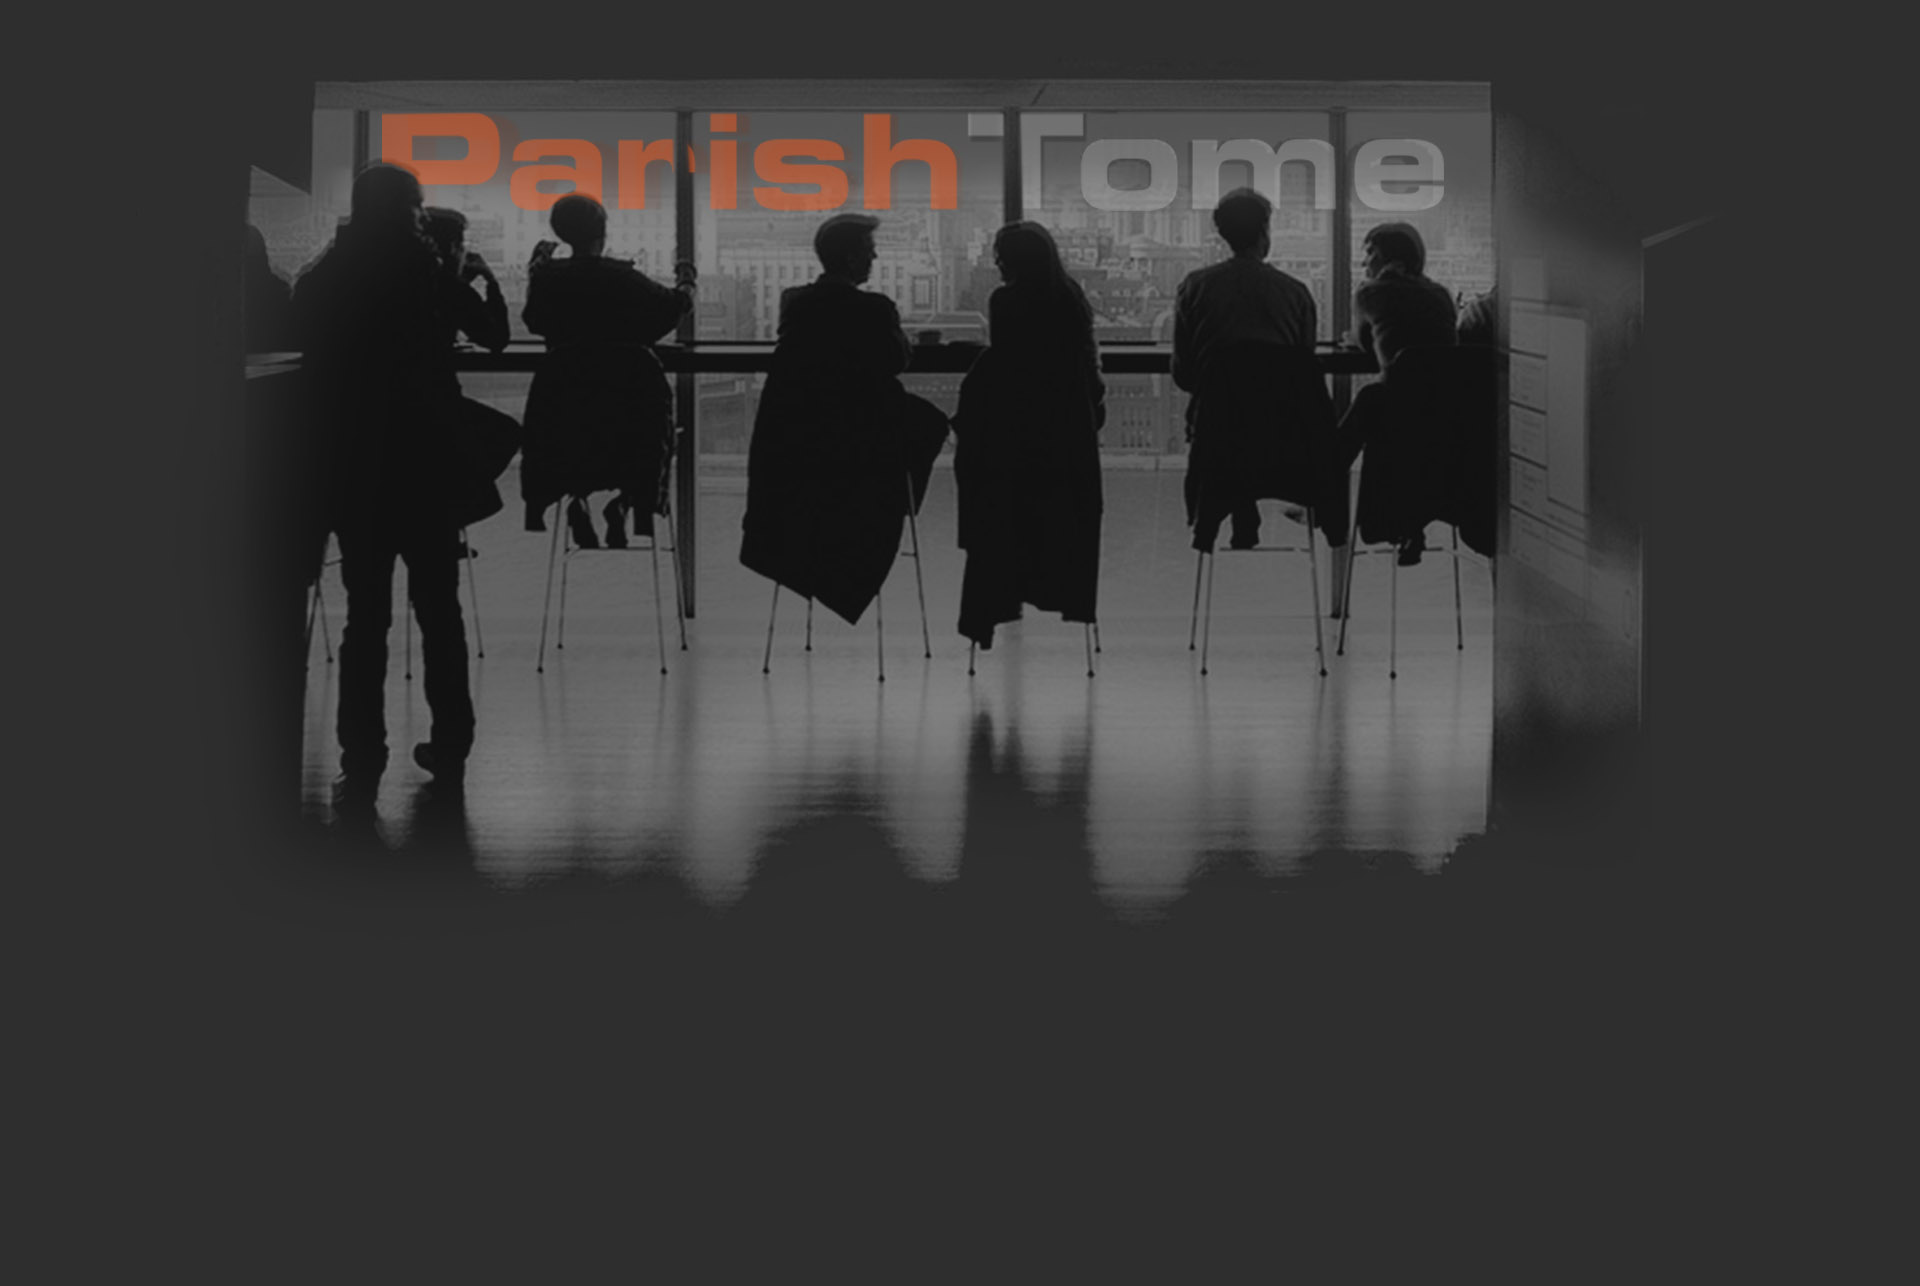
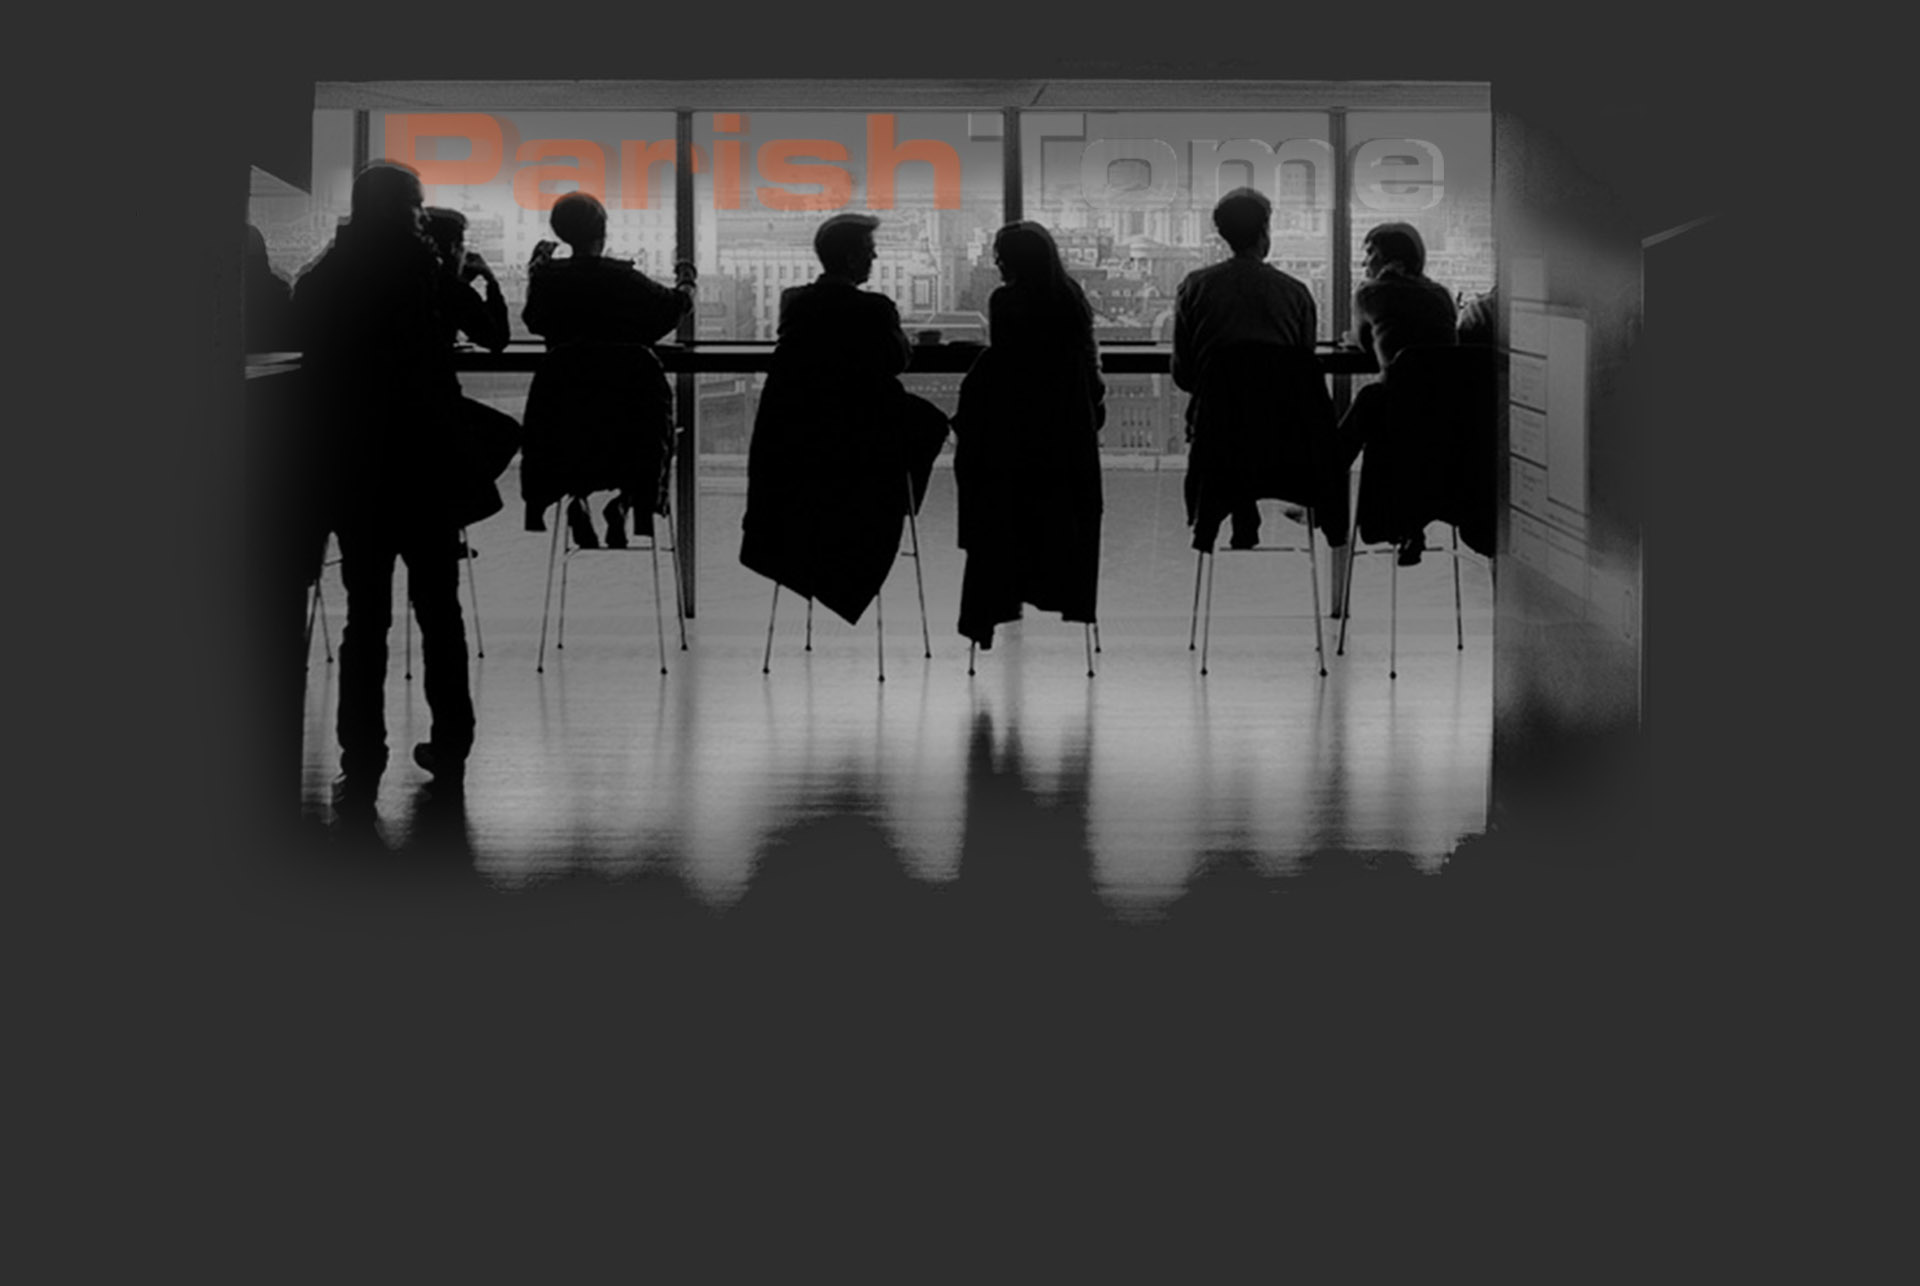
commit 137

diff --git a/index.html b/index.html
@@ -9,7 +9,7 @@
     <meta name="author" content="">
     <link rel="shortcut icon" href="ico/favicon.png">
 
-    <title>Parish Tome: A Complete Church Administration Web Application</title>
+    <title>A Complete Church Administration Web Application</title>
 
     <!-- Bootstrap core CSS -->
     <link href="css/bootstrap.min.css" rel="stylesheet">
@@ -110,8 +110,8 @@
 						<li><a id="GoToContact" href="#contact">Contact</a></li>							
 					</ul>
 					<div class="navbar-right">
-						<a href="signin.html" class="btn btn-bordered">Sign in</a>
-						<a href="signup.html" class="btn btn-primary">Sign up</a>
+						<!--<a href="signin.html" class="btn btn-bordered">Sign in</a>-->
+						<a href="signin.html" class="btn btn-primary">Sign in</a>
 					</div>	
 				</div><!--/.nav-collapse -->
 			</div>
@@ -125,9 +125,9 @@
 			<div class="container">
 				<div class="row text-center wow fadeInUp" data-wow-delay="0.4s">
 					<div class="col-md-10 col-md-offset-1">
-						<h3>A complete web based solution <span>for your church administration </span></h3>
+						<h3><font color="D74623">A complete web based solution <span>for your church administration </span></font></h3>
 						<p class="btn-inline">
-							<a href="http://www.youtube.com/watch?v=lZr5ZsFlZsM&amp;feature=share&amp;list=ALzxNYRMVOCRi5wLzuGUE7XQpqhCfYTwzI" data-pretty="prettyPhoto" class="btn btn-bordered btn-lg zoom">Take a video tour</a>
+							<a href="http://www.youtube.com/watch?v=lZr5ZsFlZsM&amp;feature=share&amp;list=ALzxNYRMVOCRi5wLzuGUE7XQpqhCfYTwzI" data-pretty="prettyPhoto" class="btn btn-bordered btn-lg zoom"><font color="D74623">Take a video tour</font></a>
 							<!--<a href="#" class="btn btn-primary btn-lg">Register for free</a>-->
 						</p>
 						<div class="home-slider">
@@ -168,102 +168,27 @@
 	<!-- Start features -->
 	<section id="features" class="contain desc-wrapp gray-bg">
 		<div class="container">
+			
 			<div class="row text-center wow fadeInUp" data-wow-delay="0.4s">
 				<div class="col-md-8 col-md-offset-2">
-					<h3 class="heading"><span>Features</span>The Featurers of Parishtome</h3>
+					<h3 class="heading"><span><h1>Features</h1></span>The Featurers of Parishtome</h3>
 				</div>
 			</div>
-			<div class="row wow fadeInDown" data-wow-delay="0.5s">
-					<i class="pe-7s-phone pe-feature"></i>
-					<div class="col-md-3 col-sm-5 col-xs-11 column">
-
-					<div class="single-item wow slideInLeft" data-wow-delay="0ms" data-wow-duration="1500ms">
-					<h5><a href="#">Family Register</a></h5>
-					<div class="text">
-					<p>Family Register is the integral part of any church administration. Manual process of maintaining and retrieving family details are tedious task especially preparing birthday and wedding anniversary list, similarly periodically updating events like birth, death, marriage etc are another issue. ParishTome provides flexible solutions for maintaining and generating family details in fingertip. Parameters of ParishTome family register is incomparable which make this software application unique in features.</p>
-					</div>
-					</div>
-				</div>
-
-				<i class="pe-7s-paperclip pe-feature"></i>
-				<div class="col-md-3 col-sm-5 col-xs-11 column">
-					<div class="single-item wow slideInLeft" data-wow-delay="0ms" data-wow-duration="1500ms">
-					<h5><a href="#">Auction Management</a></h5>
-					<p>
-					Auction is one of the main income generation media of church where families celebrates with whole heart participation. Even though it’s a fund rising event the fun and enjoyment of this together is very meaningful. ParishTome help to keep its essence in all means and open up a wide module to accommodate all accounting details as a separate income expense head. Tracking individual contributions and sales figures are handled accurately. 
-					</p>
-					</div>
-			</div>
-					
-					<i class="pe-7s-graph1 pe-feature"></i>
-					<div class="col-md-3 col-sm-5 col-xs-11 column">
-					<div class="single-item wow slideInLeft" data-wow-delay="0ms" data-wow-duration="1500ms">
-					<h5><a href="#">Contributions and Giving</a></h5>
-					<div class="text">
-					<p>
-					Giving offering often believed as a blessing hence ParishTome creates many user-friendly options to minimize your struggles in this area. Among them online payment is one of the best features combatable to the modern technology. Another advanced option is a pledge module where a family can define their monthly commitment towards the church, and that minimize the data entry overhead. Fingertip monitoring and retrieving self-contributions history enable transparency in accounts.
-					</p>
-				</div>
-				</div>
-			</div>
-
-					<i class="pe-7s-edit pe-feature"></i>
-					<div class="col-md-3 col-sm-5 col-xs-11 column">
-
-					<div class="single-item wow slideInLeft" data-wow-delay="0ms" data-wow-duration="1500ms">
-					<h5><a href="#">Event Management</a></h5>
-					<div class="text">
-					<p>
-					ParishTome not only provides just a calendar to schedule church events but also provides online check-in facility as well as customize options to create an event. This module also helps to send reminders and alerts to invitees. These events can be linked to the web-site as well as in the mobile apps. Can attach event photos and documents for future references.
-					</p>
-					</div>
-				</div>
-			</div>
-					
-					<i class="pe-7s-share pe-feature"></i>
-					<div class="col-md-3 col-sm-5 col-xs-11 column">
-					<div class="single-item wow slideInLeft" data-wow-delay="0ms" data-wow-duration="1500ms">
-					<h5><a href="#">Expenses and Vouchers</a></h5>
-					<p>
-					 Tracking the vouchers of respective expenses are always a miserable job but ParishTome brings out a very flexible solution for you to relax. Expenses and its vouchers can be tagged together for further verifications and reconciliation processes. Since the expenses are captured against each department heads the accounting reports and trial balances will be accurate.
-					</p>					
-					</div>
-				</div>
-				<i class="pe-7s-paper-plane pe-feature"></i>
-					<div class="col-md-3 col-sm-5 col-xs-11 column">
-					<div class="single-item wow slideInLeft" data-wow-delay="0ms" data-wow-duration="1500ms">
-					<h5><a href="#">Asset Management</a></h5>
-					<p>
-					Donation of assets from family and members can be tracked at any point of time. It’s a prestige module where people can always check the generous hearts to be get inspired for new commitments towards church.
-					</p>
-					</div>
-				</div>
-					
-		</div>
-	</section>
-	<!-- End features -->
-	
-	<div class="clearfix"></div>
-	
-	<!-- Start description -->
-	<section id="description" class="contain">
-		<div class="container">
-			<div class="row">
-				<div class="col-md-7 wow fadeInLeft" data-wow-delay="0.4s">
-					<img src="img/device.png" class="img-responsive" alt="" />
-				</div>
-				<div class="col-md-5 margintop40 wow fadeInRight" data-wow-delay="0.4s">
+			<div class="col-md-6 margintop40 wow fadeInRight" data-wow-delay="0.4s">
+				
 					<div class="accordion clearfix" id="accordion1">
+						<div class="row">
+					<div class="col-md-12">
 						<div class="accordion-group">
-							<div class="accordion-heading">										
+							<div class="accordion-heading">
 								<a class="accordion-toggle" data-toggle="collapse" data-parent="#accordion" href="#collapse1">
-									<i class="pe-7s-angle-down"></i> Product knowledge
+									<i class="pe-7s-angle-down"></i> Church Family Register
 								</a>
 							</div>
-							<div id="collapse1" class="accordion-body collapse in">
+							<div id="collapse1" class="accordion-body collapse">
 								<div class="accordion-inner">
-									<p>
-									Sed modus munere menandri ad. Te ius vero qualisque concludaturque. Sed ne vide fastidii incorrupte, elitr soleat intellegebat eam at. Aperiri facilis in pro, vis idque harum ex, ex vocent utroque similique vix choro moderatius consequuntur sit te, has veri salutatus te. Labore graecis aliquando ad sed. Accusam constituto honestatis et eos.
+									<p style="text-align:justify"> 
+									 Family Register is the integral part of any church administration. Manual process of maintaining and retrieving family details are tedious task especially preparing birthday and wedding anniversary list, similarly periodically updating events like birth, death, marriage etc are another issue. ParishTome provides flexible solutions for maintaining and generating family details in fingertip. Parameters of ParishTome family register is incomparable which make this software application unique in features.
 									</p>
 								</div>
 							</div>
@@ -271,13 +196,13 @@
 						<div class="accordion-group">
 							<div class="accordion-heading">
 								<a class="accordion-toggle" data-toggle="collapse" data-parent="#accordion" href="#collapse2">
-									<i class="pe-7s-angle-down"></i> How to get it
+									<i class="pe-7s-angle-down"></i> Auction Management
 								</a>
 							</div>
 							<div id="collapse2" class="accordion-body collapse">
 								<div class="accordion-inner">
-									<p>
-									Ea qui facete corpora honestatis. Eu sit soluta antiopam, postea sanctus incorrupte an vis. Pro primis insolens recteque no. Pro ei nostrum molestie splendide. Sed et elitr zril, harum euismod nam ad, velit sadipscing quo ad. Duo facer solet deleniti an, nec quis oportere efficiendi an, et regione principes comprehensam qui.
+									<p style="text-align:justify">
+									Auction is one of the main income generation media of church where families celebrates with whole heart participation. Even though it’s a fund rising event the fun and enjoyment of this together is very meaningful. ParishTome help to keep its essence in all means and open up a wide module to accommodate all accounting details as a separate income expense head. Tracking individual contributions and sales figures are handled accurately. 
 									</p>
 								</div>
 							</div>
@@ -285,13 +210,130 @@
 						<div class="accordion-group">
 							<div class="accordion-heading">
 								<a class="accordion-toggle" data-toggle="collapse" data-parent="#accordion" href="#collapse3">
-									<i class="pe-7s-angle-down"></i> Product license
+									<i class="pe-7s-angle-down"></i> Contributions and Giving
 								</a>
 							</div>
 							<div id="collapse3" class="accordion-body collapse">
 								<div class="accordion-inner">
-									<p>
-									Lorem ipsum dolor sit amet, eros accumsan intellegam cu eum, sed te docendi blandit. In primis lucilius mea, alii oratio numquam ei qui. Eam at quas mnesarchum. An adhuc consequat mel, usu in utroque dolorem. Nam diceret aliquam singulis no. Delenit temporibus scribentur eum eu. Labore graecis aliquando ad sed accusam constituto honestatis et eos.
+									<p style="text-align:justify">
+									Giving offering often believed as a blessing hence ParishTome creates many user-friendly options to minimize your struggles in this area. Among them online payment is one of the best features combatable to the modern technology. Another advanced option is a pledge module where a family can define their monthly commitment towards the church, and that minimize the data entry overhead. Fingertip monitoring and retrieving self-contributions history enable transparency in accounts. 
+									</p>
+								</div>
+							</div>
+						</div>
+					</div>
+				</div>
+			</div>
+		</div>
+					<div class="col-md-6 margintop40 wow fadeInRight" data-wow-delay="0.4s">
+				
+					<div class="accordion clearfix" id="accordion1">
+						<div class="row">
+					<div class="col-md-12">
+						<div class="accordion-group">
+							<div class="accordion-heading">
+								<a class="accordion-toggle" data-toggle="collapse" data-parent="#accordion" href="#collapse4">
+									<i class="pe-7s-angle-down"></i> Event Management
+								</a>
+							</div>
+							<div id="collapse4" class="accordion-body collapse">
+								<div class="accordion-inner">
+									<p style="text-align:justify">
+									ParishTome not only provides just a calendar to schedule church events but also provides online check-in facility as well as customize options to create an event. This module also helps to send reminders and alerts to invitees. These events can be linked to the web-site as well as in the mobile apps. Can attach event photos and documents for future references. 
+									</p>
+								</div>
+							</div>
+						</div>
+						<div class="accordion-group">
+							<div class="accordion-heading">
+								<a class="accordion-toggle" data-toggle="collapse" data-parent="#accordion" href="#collapse5">
+									<i class="pe-7s-angle-down"></i> Expenses and Vouchers
+								</a>
+							</div>
+							<div id="collapse5" class="accordion-body collapse">
+								<div class="accordion-inner">
+									<p style="text-align:justify">
+									Tracking the vouchers of respective expenses are always a miserable job but ParishTome brings out a very flexible solution for you to relax. Expenses and its vouchers can be tagged together for further verifications and reconciliation processes. Since the expenses are captured against each department heads the accounting reports and trial balances will be accurate. 
+									</p>
+								</div>
+							</div>
+						</div>
+						<div class="accordion-group">
+							<div class="accordion-heading">
+								<a class="accordion-toggle" data-toggle="collapse" data-parent="#accordion" href="#collapse6">
+									<i class="pe-7s-angle-down"></i> Asset Management
+
+								</a>
+							</div>
+							<div id="collapse6" class="accordion-body collapse">
+								<div class="accordion-inner">
+									<p style="text-align:justify">
+									Donation of assets from family and members can be tracked at any point of time. It’s a prestige module where people can always check the generous hearts to be get inspired for new commitments towards church.
+									</p>
+								</div>
+							</div>
+						</div>
+					</div>
+				</div>
+				</div>
+			</div>
+					
+				
+			</div>
+
+		
+</section>
+	<!-- End features -->
+	
+	<div class="clearfix"></div>
+	
+	<!-- Start description -->
+	<section id="description" class="contain">
+		<div class="container">
+			
+				<div class="col-md-7 wow fadeInLeft" data-wow-delay="0.4s">
+					<img src="img/device.png" class="img-responsive" alt="" />
+				</div>
+				<div class="col-md-5 margintop40 wow fadeInRight" data-wow-delay="0.4s">
+					<div class="accordion clearfix" id="accordion1">
+						<div class="accordion-group">
+							<div class="accordion-heading">
+								<a class="accordion-toggle" data-toggle="collapse" data-parent="#accordion" href="#collapse7">
+									<i class="pe-7s-angle-down"></i> Church Software
+								</a>
+							</div>
+							<div id="collapse7" class="accordion-body collapse">
+								<div class="accordion-inner">
+									<p style="text-align:justify">
+									This will be the first web-based church software application across the world which is flexible to handle all churches irrespective of denominations. Independent churches with multiple branches can also use this unique software application. This application can also be integrated from the church website page if needed. 
+									</p>
+								</div>
+							</div>
+						</div>
+						<div class="accordion-group">
+							<div class="accordion-heading">
+								<a class="accordion-toggle" data-toggle="collapse" data-parent="#accordion" href="#collapse8">
+									<i class="pe-7s-angle-down"></i> Social Media
+								</a>
+							</div>
+							<div id="collapse8" class="accordion-body collapse">
+								<div class="accordion-inner">
+									<p style="text-align:justify">
+									A high-tech and full-featured social media environment take care of all the spiritual needs of church members. Alerts, announcements, and messages sent from respective churches will be highlighted as notifications in the timeline of each member. The high-security feature of this social media keeps each denominational members distinct. 
+									</p>
+								</div>
+							</div>
+						</div>
+						<div class="accordion-group">
+							<div class="accordion-heading">
+								<a class="accordion-toggle" data-toggle="collapse" data-parent="#accordion" href="#collapse9">
+									<i class="pe-7s-angle-down"></i> Mobile App
+								</a>
+							</div>
+							<div id="collapse9" class="accordion-body collapse">
+								<div class="accordion-inner">
+									<p style="text-align:justify">
+									An exclusive mobile application is getting ready to communicate with the members of the parent church, and it also shares the common features of social media. This mobile application is going to be a prestige identification mark for each church to compatible with this modern technology. Will be launching soon.
 									</p>
 								</div>
 							</div>
@@ -439,7 +481,7 @@
 				<div class="col-md-4">
 					<div class="pricing-wrapper">
 						<div class="pricing-head">
-							<span class="pricing-price">39K</span>
+							<span class="pricing-price">44K</span>
 							<h4>Macro-Level</h4>
 							<p>Upto 1000 Members</p>
 						</div>
@@ -470,7 +512,7 @@
 				<div class="row wow fadeInUp" data-wow-delay="0.4s">
 					<div class="col-md-8 col-md-offset-2">
 						<font size="6"><b>Receive Brochure and Quotation</b></font>
-						<p>Risk Free. 30 Day Money Back Guarantee.</p>
+						<p>Risk Free & 30 Day Money Back Guarantee.</p>
 						<form>
 							<fieldset class="subscribe-form">
 								<input class="subscribe" type="text" placeholder="Enter your email address">
@@ -501,7 +543,7 @@
 					<div class="col-md-4">
 						<div class="testimonial">
 							<blockquote>
-							An excellent software application with immense features which covers all the church administration needs 
+							An excellent software application with immense features which covers all church administration needs 
 							</blockquote>
 							<span class="testimoni-sparator"></span>
 						</div>
@@ -519,23 +561,24 @@
 					<div class="col-md-4">
 						<div class="testimonial">
 							<blockquote>
-							Duo facer solet deleniti an, nec quis oportere efficiendi an regione principes.
+							Compared to the hard and slow manual process of the old administration procedures now this unique software application made things very easy and fast 
 							</blockquote>
 							<span class="testimoni-sparator"></span>
 						</div>
 						<div class="clearfix"></div>
 						<div class="testimoni-author">
 							<div class="author-info">
-								<h5>Ence iif</h5>
-								<p><a href="#">99webpage founder</a></p>
+								<h5>Rev. Anilal M Jose </h5>
+								<p><a href="#">Presbyter CSI SKD</a></p>
 							</div>
-							<img src="img/testimoni/avatar2.png" alt="" />
+							<img src="img/testimoni/Anilal.jpg" alt="" />
 						</div>
 					</div>
 					<div class="col-md-4">
 						<div class="testimonial">
 							<blockquote>
-							Choro moderatius consequuntur sit te, has veri salutatus te abore graecis aliquando.
+							Compared to the hard and slow manual process of the old administration procedures now this unique software application made things very easy and fast 
+
 							</blockquote>
 							<span class="testimoni-sparator"></span>
 						</div>
